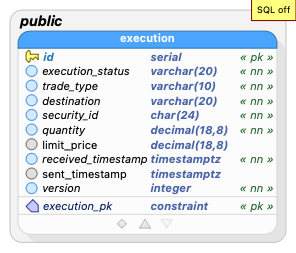
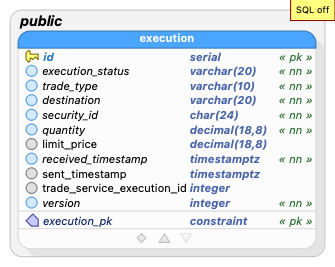
updated documentation

Changed region(s): [[0.0, 0.0, 1.0, 0.9684]]

diff --git a/documentation/execution-service.md b/documentation/execution-service.md
@@ -1,0 +1,27 @@
+
+<a name="public.execution"></a>
+### _public_.**execution** `Table`
+| Name | Data type  | PK | FK | UQ  | Not null | Default value | Description |
+| --- | --- | :---: | :---: | :---: | :---: | --- | --- |
+| id | serial | &#10003; |  |  | &#10003; |  |  |
+| execution_status | varchar(20) |  |  |  | &#10003; |  |  |
+| trade_type | varchar(10) |  |  |  | &#10003; |  |  |
+| destination | varchar(20) |  |  |  | &#10003; |  |  |
+| security_id | char(24) |  |  |  | &#10003; |  |  |
+| quantity | decimal(18,8) |  |  |  | &#10003; |  |  |
+| limit_price | decimal(18,8) |  |  |  |  |  |  |
+| received_timestamp | timestamptz |  |  |  | &#10003; |  |  |
+| sent_timestamp | timestamptz |  |  |  |  |  |  |
+| trade_service_execution_id | integer |  |  |  |  |  |  |
+| version | integer |  |  |  | &#10003; | 1 |  |
+
+#### Constraints
+| Name | Type | Column(s) | References | On Update | On Delete | Expression | Description |
+|  --- | --- | --- | --- | --- | --- | --- | --- |
+| execution_pk | PRIMARY KEY | id |  |  |  |  |  |
+
+---
+
+Generated at _2025-05-24T11:50:05_ by **pgModeler 1.2.0-beta1**
+[PostgreSQL Database Modeler - pgmodeler.io ](https://pgmodeler.io)
+Copyright © 2006 - 2025 Raphael Araújo e Silva 
